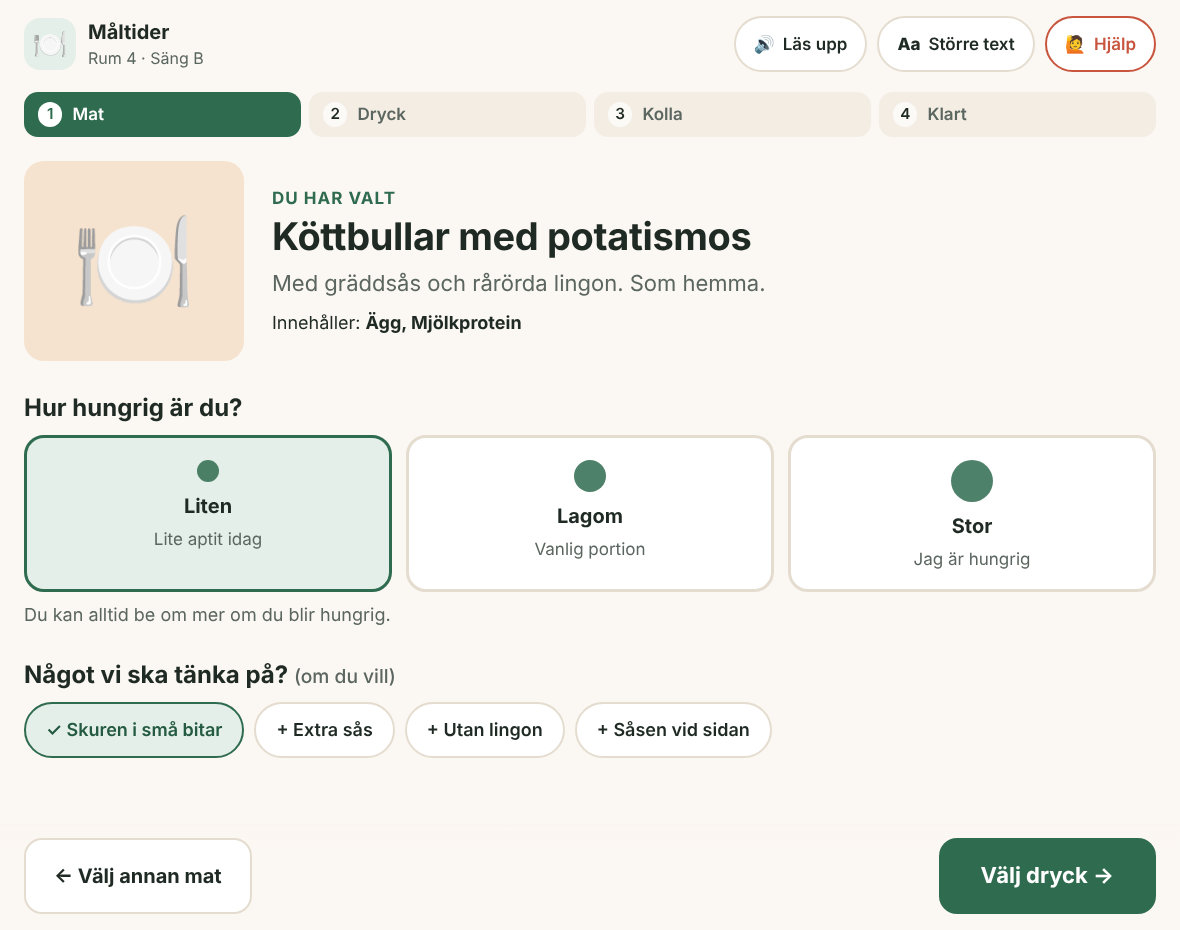
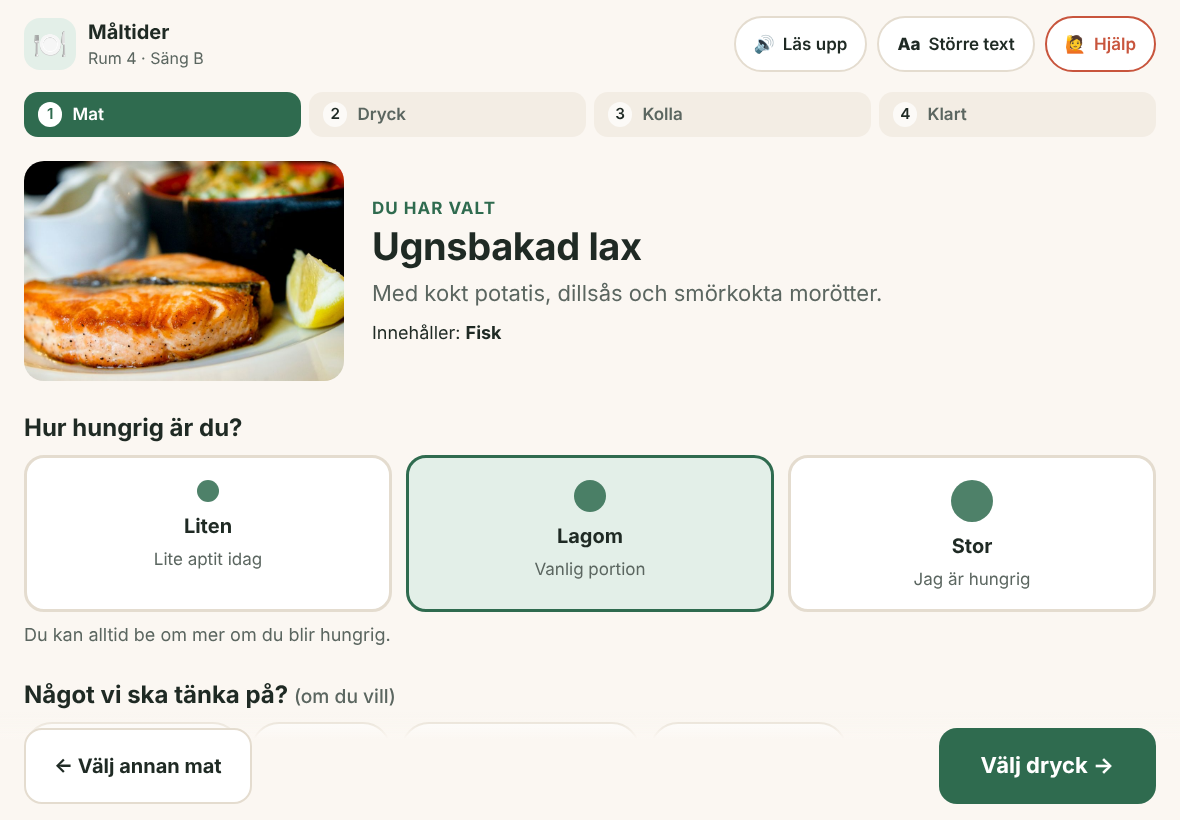
Riktiga matbilder i menyn, rättsidan, sammanfattningen och bekräftelsen
Foton från Pexels (fri licens) i public/mat med alt-texter för skärmläsare.
Köttbullar byts mot kalvspett eftersom inget fritt foto av köttbullar gick att hämta.

Claude-Session: https://claude.ai/code/session_01W2bM9vS6XV6jr7pPMAABKn

diff --git a/src/lib/data.ts b/src/lib/data.ts
@@ -45,8 +45,10 @@ export type Dish = {
   id: string;
   name: string;
   description: string;
-  emoji: string;
-  color: string;
+  /** Foto i public/mat – se README för källor. */
+  image: string;
+  /** Beskrivning av bilden för skärmläsare. */
+  imageAlt: string;
   label?: string;
   /** Kostordinationer som rätten passar för. */
   suits: DietTag[];
@@ -62,21 +64,21 @@ export const meal = {
 
 export const dishes: Dish[] = [
   {
-    id: "kottbullar",
-    name: "Köttbullar med potatismos",
-    description: "Med gräddsås och rårörda lingon. Som hemma.",
-    emoji: "🍽",
-    color: "#F6E3CF",
-    label: "Klassiker",
+    id: "kalvspett",
+    name: "Kalvspett med potatismos",
+    description: "Möra bitar av kalv med grönsaker, potatismos och brun sås.",
+    image: "/mat/kalvspett.jpg",
+    imageAlt: "Kalvspett med zucchini och paprika på potatismos med brun sås",
+    label: "Dagens rätt",
     suits: ["diabetes", "laktosfri"],
-    allergens: ["Ägg", "Mjölkprotein"],
+    allergens: [],
   },
   {
     id: "lax",
     name: "Ugnsbakad lax",
     description: "Med kokt potatis, dillsås och smörkokta morötter.",
-    emoji: "🐟",
-    color: "#F9DCD4",
+    image: "/mat/lax.jpg",
+    imageAlt: "Stekt laxfilé med citronklyfta",
     suits: ["diabetes", "laktosfri", "glutenfri"],
     allergens: ["Fisk"],
   },
@@ -84,8 +86,8 @@ export const dishes: Dish[] = [
     id: "kycklinggryta",
     name: "Kycklinggryta med ris",
     description: "Mild gryta med paprika och grönsaker.",
-    emoji: "🍛",
-    color: "#FBEBC6",
+    image: "/mat/kycklinggryta.jpg",
+    imageAlt: "Kyckling med ris och grönsaker på tallrik",
     suits: ["diabetes", "laktosfri", "glutenfri"],
     allergens: ["Selleri"],
   },
@@ -93,8 +95,8 @@ export const dishes: Dish[] = [
     id: "soppa",
     name: "Grönsakssoppa",
     description: "Värmande soppa med bröd och pålägg. Bra om aptiten är liten.",
-    emoji: "🥣",
-    color: "#DDEBD3",
+    image: "/mat/soppa.jpg",
+    imageAlt: "Grönsakssoppa i röd skål med bröd vid sidan",
     label: "Något lätt",
     suits: ["diabetes", "laktosfri", "konsistensanpassad"],
     allergens: ["Gluten"],
@@ -102,9 +104,9 @@ export const dishes: Dish[] = [
   {
     id: "pannkakor",
     name: "Pannkakor med sylt",
-    description: "Med vispad grädde.",
-    emoji: "🥞",
-    color: "#F6E7C1",
+    description: "Med sylt och vispad grädde.",
+    image: "/mat/pannkakor.jpg",
+    imageAlt: "Pannkakor med jordgubbar och vispad grädde",
     suits: [],
     allergens: ["Ägg", "Mjölk", "Gluten"],
   },
@@ -112,8 +114,8 @@ export const dishes: Dish[] = [
     id: "fiskgratang",
     name: "Fiskgratäng",
     description: "Med potatismos och ost.",
-    emoji: "🧀",
-    color: "#F1E6D6",
+    image: "/mat/fiskgratang.jpg",
+    imageAlt: "Gratäng med gyllene ostyta i ugnsform",
     suits: ["diabetes"],
     allergens: ["Fisk", "Mjölk"],
   },
@@ -141,7 +143,7 @@ export const portions: { id: Portion; name: string; hint: string }[] = [
 export const extras = [
   "Skuren i små bitar",
   "Extra sås",
-  "Utan lingon",
+  "Extra potatis eller ris",
   "Såsen vid sidan",
 ];
 

diff --git a/src/app/globals.css b/src/app/globals.css
@@ -535,6 +535,7 @@ button:focus-visible {
 
 .dish {
   display: flex;
+  align-items: stretch;
   text-align: left;
   padding: 0;
   border: 3px solid transparent;
@@ -554,11 +555,11 @@ button:focus-visible {
 }
 
 .dish-image {
-  width: 38%;
+  width: 42%;
   flex-shrink: 0;
-  display: grid;
-  place-items: center;
-  font-size: 72px;
+  align-self: stretch;
+  object-fit: cover;
+  background: var(--surface-2);
 }
 
 .dish-body {
@@ -594,18 +595,18 @@ button:focus-visible {
 
 .dish-hero {
   display: grid;
-  grid-template-columns: 220px 1fr;
+  grid-template-columns: 320px 1fr;
   gap: 28px;
   align-items: center;
   margin-bottom: 32px;
 }
 
 .dish-hero-image {
-  height: 200px;
+  width: 100%;
+  height: 220px;
   border-radius: var(--radius);
-  display: grid;
-  place-items: center;
-  font-size: 100px;
+  object-fit: cover;
+  background: var(--surface-2);
 }
 
 .section {
@@ -714,13 +715,14 @@ button:focus-visible {
 }
 
 .summary-image {
-  width: 84px;
-  height: 84px;
+  width: 96px;
+  height: 96px;
   border-radius: 18px;
   display: grid;
   place-items: center;
   font-size: 44px;
   flex-shrink: 0;
+  object-fit: cover;
 }
 
 .summary-text {
@@ -796,9 +798,21 @@ button:focus-visible {
 }
 
 .done-order {
-  padding-top: 14px;
+  padding-top: 18px;
   border-top: 1px solid var(--border);
   font-weight: 600;
+  display: flex;
+  align-items: center;
+  gap: 18px;
+  text-align: left;
+}
+
+.done-image {
+  width: 120px;
+  height: 90px;
+  border-radius: 14px;
+  object-fit: cover;
+  flex-shrink: 0;
 }
 
 .done-wish {

diff --git a/src/app/klart/page.tsx b/src/app/klart/page.tsx
@@ -43,11 +43,14 @@ export default function DonePage() {
             <span className="done-time-value">kl {meal.servedAt}</span>
           </div>
           {dish && drink && portion && (
-            <p className="done-order">
-              {dish.emoji} {portion.name} portion {dish.name.toLowerCase()}
-              <br />
-              {drink.emoji} {drink.name}
-            </p>
+            <div className="done-order">
+              <img className="done-image" src={dish.image} alt={dish.imageAlt} />
+              <p>
+                {portion.name} portion {dish.name.toLowerCase()}
+                <br />
+                {drink.emoji} {drink.name}
+              </p>
+            </div>
           )}
         </div>
 

diff --git a/src/app/meny/page.tsx b/src/app/meny/page.tsx
@@ -39,9 +39,7 @@ export default function MenuPage() {
             className={`dish ${order.dishId === dish.id ? "selected" : ""}`}
             onClick={() => choose(dish.id)}
           >
-            <div className="dish-image" style={{ background: dish.color }} aria-hidden>
-              <span>{dish.emoji}</span>
-            </div>
+            <img className="dish-image" src={dish.image} alt={dish.imageAlt} />
             <div className="dish-body">
               {dish.label && <span className="dish-label">{dish.label}</span>}
               <h2>{dish.name}</h2>

diff --git a/src/app/sammanfattning/page.tsx b/src/app/sammanfattning/page.tsx
@@ -48,7 +48,7 @@ export default function SummaryPage() {
 
       <div className="card summary">
         <div className="summary-row">
-          <div className="summary-image" style={{ background: dish.color }} aria-hidden>{dish.emoji}</div>
+          <img className="summary-image" src={dish.image} alt="" />
           <div className="summary-text">
             <span className="summary-key">Mat</span>
             <strong>{dish.name}</strong>

diff --git a/src/app/meny/[id]/page.tsx b/src/app/meny/[id]/page.tsx
@@ -34,9 +34,7 @@ export default function DishPage() {
       }
     >
       <div className="dish-hero">
-        <div className="dish-hero-image" style={{ background: dish.color }} aria-hidden>
-          <span>{dish.emoji}</span>
-        </div>
+        <img className="dish-hero-image" src={dish.image} alt={dish.imageAlt} />
         <div>
           <p className="eyebrow">Du har valt</p>
           <h1>{dish.name}</h1>

diff --git a/README.md b/README.md
@@ -19,7 +19,7 @@ Logga in med Ingrids **syntetiska** personnummer **19450120-2388** (eller tryck 
 |---|---|---|
 | 1 | `/` | Inloggning med personnummer på ett stort sifferblock på skärmen. Numret kontrolleras (datum och kontrollsiffra) och felen förklaras i klartext. |
 | 2 | `/valkommen` | "Hej Ingrid! Stämmer det här?" – namn, rum, säng, kost och allergier. |
-| 3 | `/meny` | Bara rätter som passar hennes kost och allergier visas. Det står hur många som är dolda och varför. |
+| 3 | `/meny` | **Foton på maten.** Bara rätter som passar hennes kost och allergier visas. Det står hur många som är dolda och varför. |
 | 4 | `/meny/[id]` | Allergener, portionsstorlek ("Hur hungrig är du?") och önskemål som "Skuren i små bitar". |
 | 5 | `/dryck` | Dryck som passar kosten. |
 | 6 | `/sammanfattning` | "Stämmer det här?" – allt går att ändra. |
@@ -46,6 +46,21 @@ Hjälpmedel på varje sida: **Läs upp** (talsyntes på svenska), **Större text
 
 1. **Förstå problemet** – [docs/steg-1-problemforstaelse.md](docs/steg-1-problemforstaelse.md)
 2. **Prototyp** – den här appen
+
+## Matbilder
+
+Fotona i `public/mat/` kommer från [Pexels](https://www.pexels.com/license/) och får användas fritt, utan krav på att fotografen anges. Kalvspettsbilden är beskuren.
+
+| Rätt | Källa |
+|---|---|
+| Kalvspett med potatismos | https://www.pexels.com/photo/2739250/ |
+| Ugnsbakad lax | https://www.pexels.com/photo/2374946/ |
+| Kycklinggryta med ris | https://www.pexels.com/photo/21822134/ |
+| Grönsakssoppa | https://www.pexels.com/photo/34314393/ |
+| Pannkakor med sylt | https://www.pexels.com/photo/3225506/ |
+| Fiskgratäng | https://www.pexels.com/photo/33042510/ |
+
+Vill ni byta en bild? Lägg en ny fil i `public/mat/` och ändra `image` i `src/lib/data.ts`. I skarp drift fotograferar köket sina egna rätter.
 
 ## Skärmbilder
 
